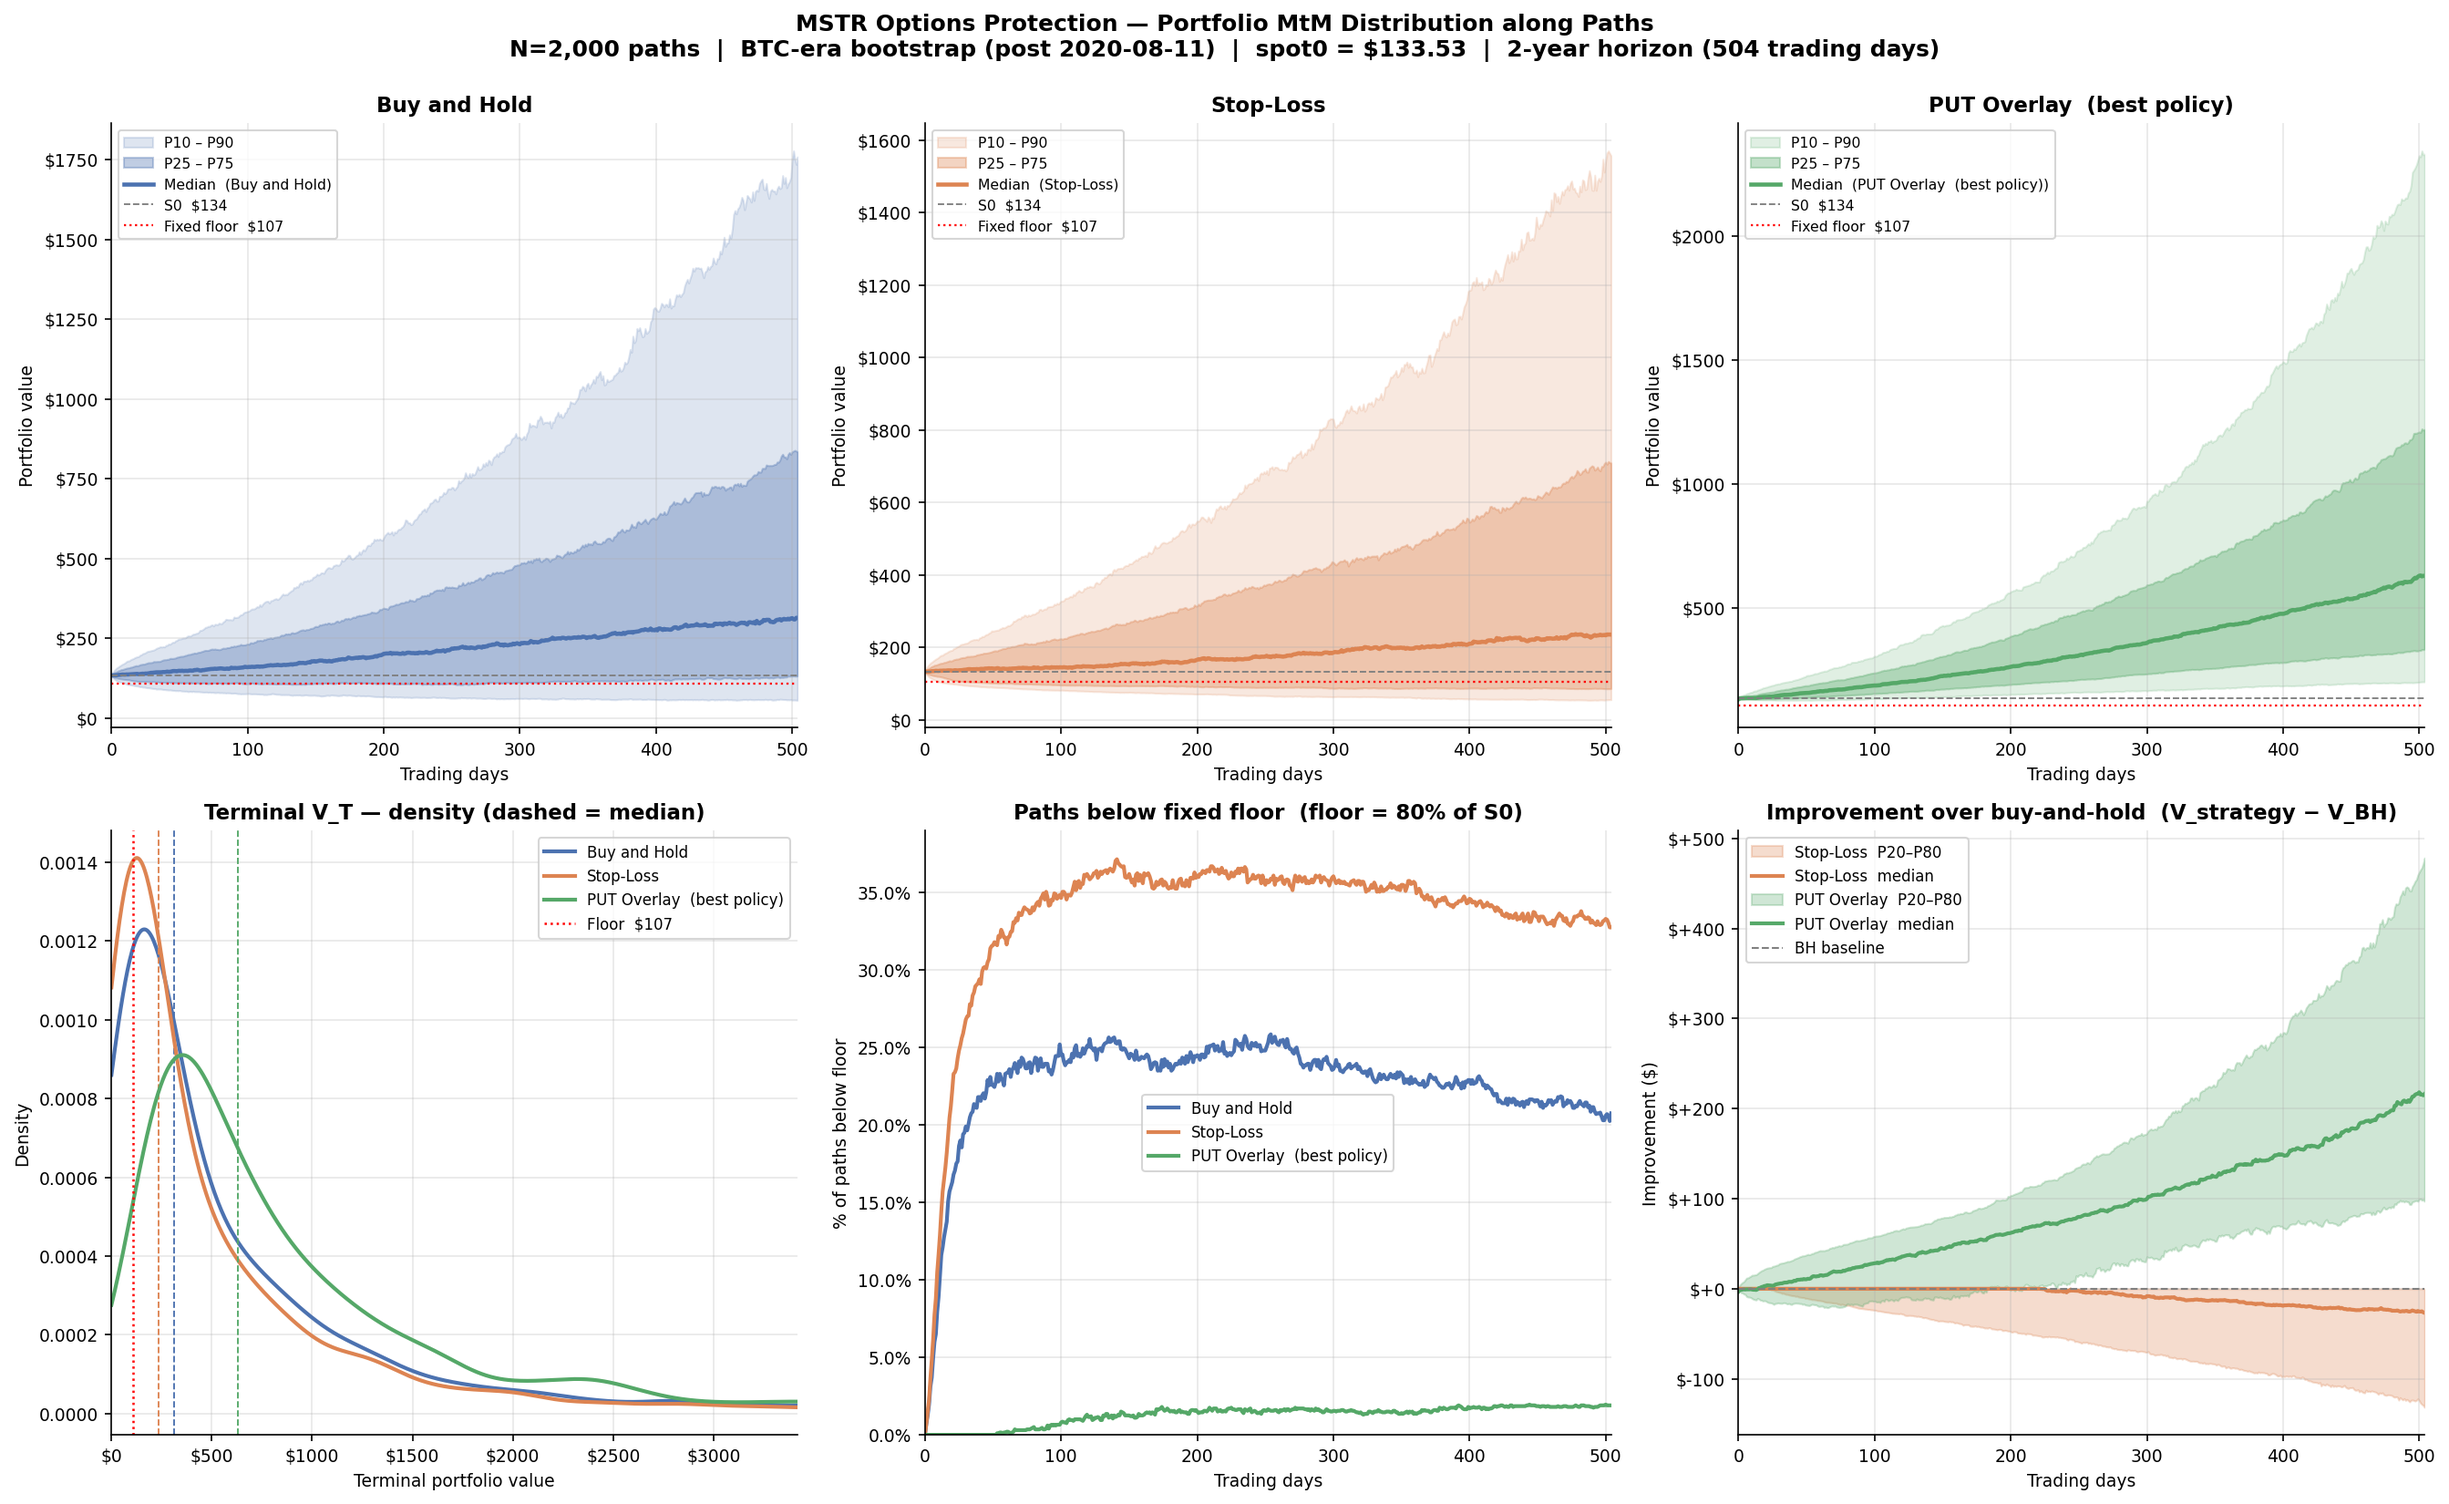
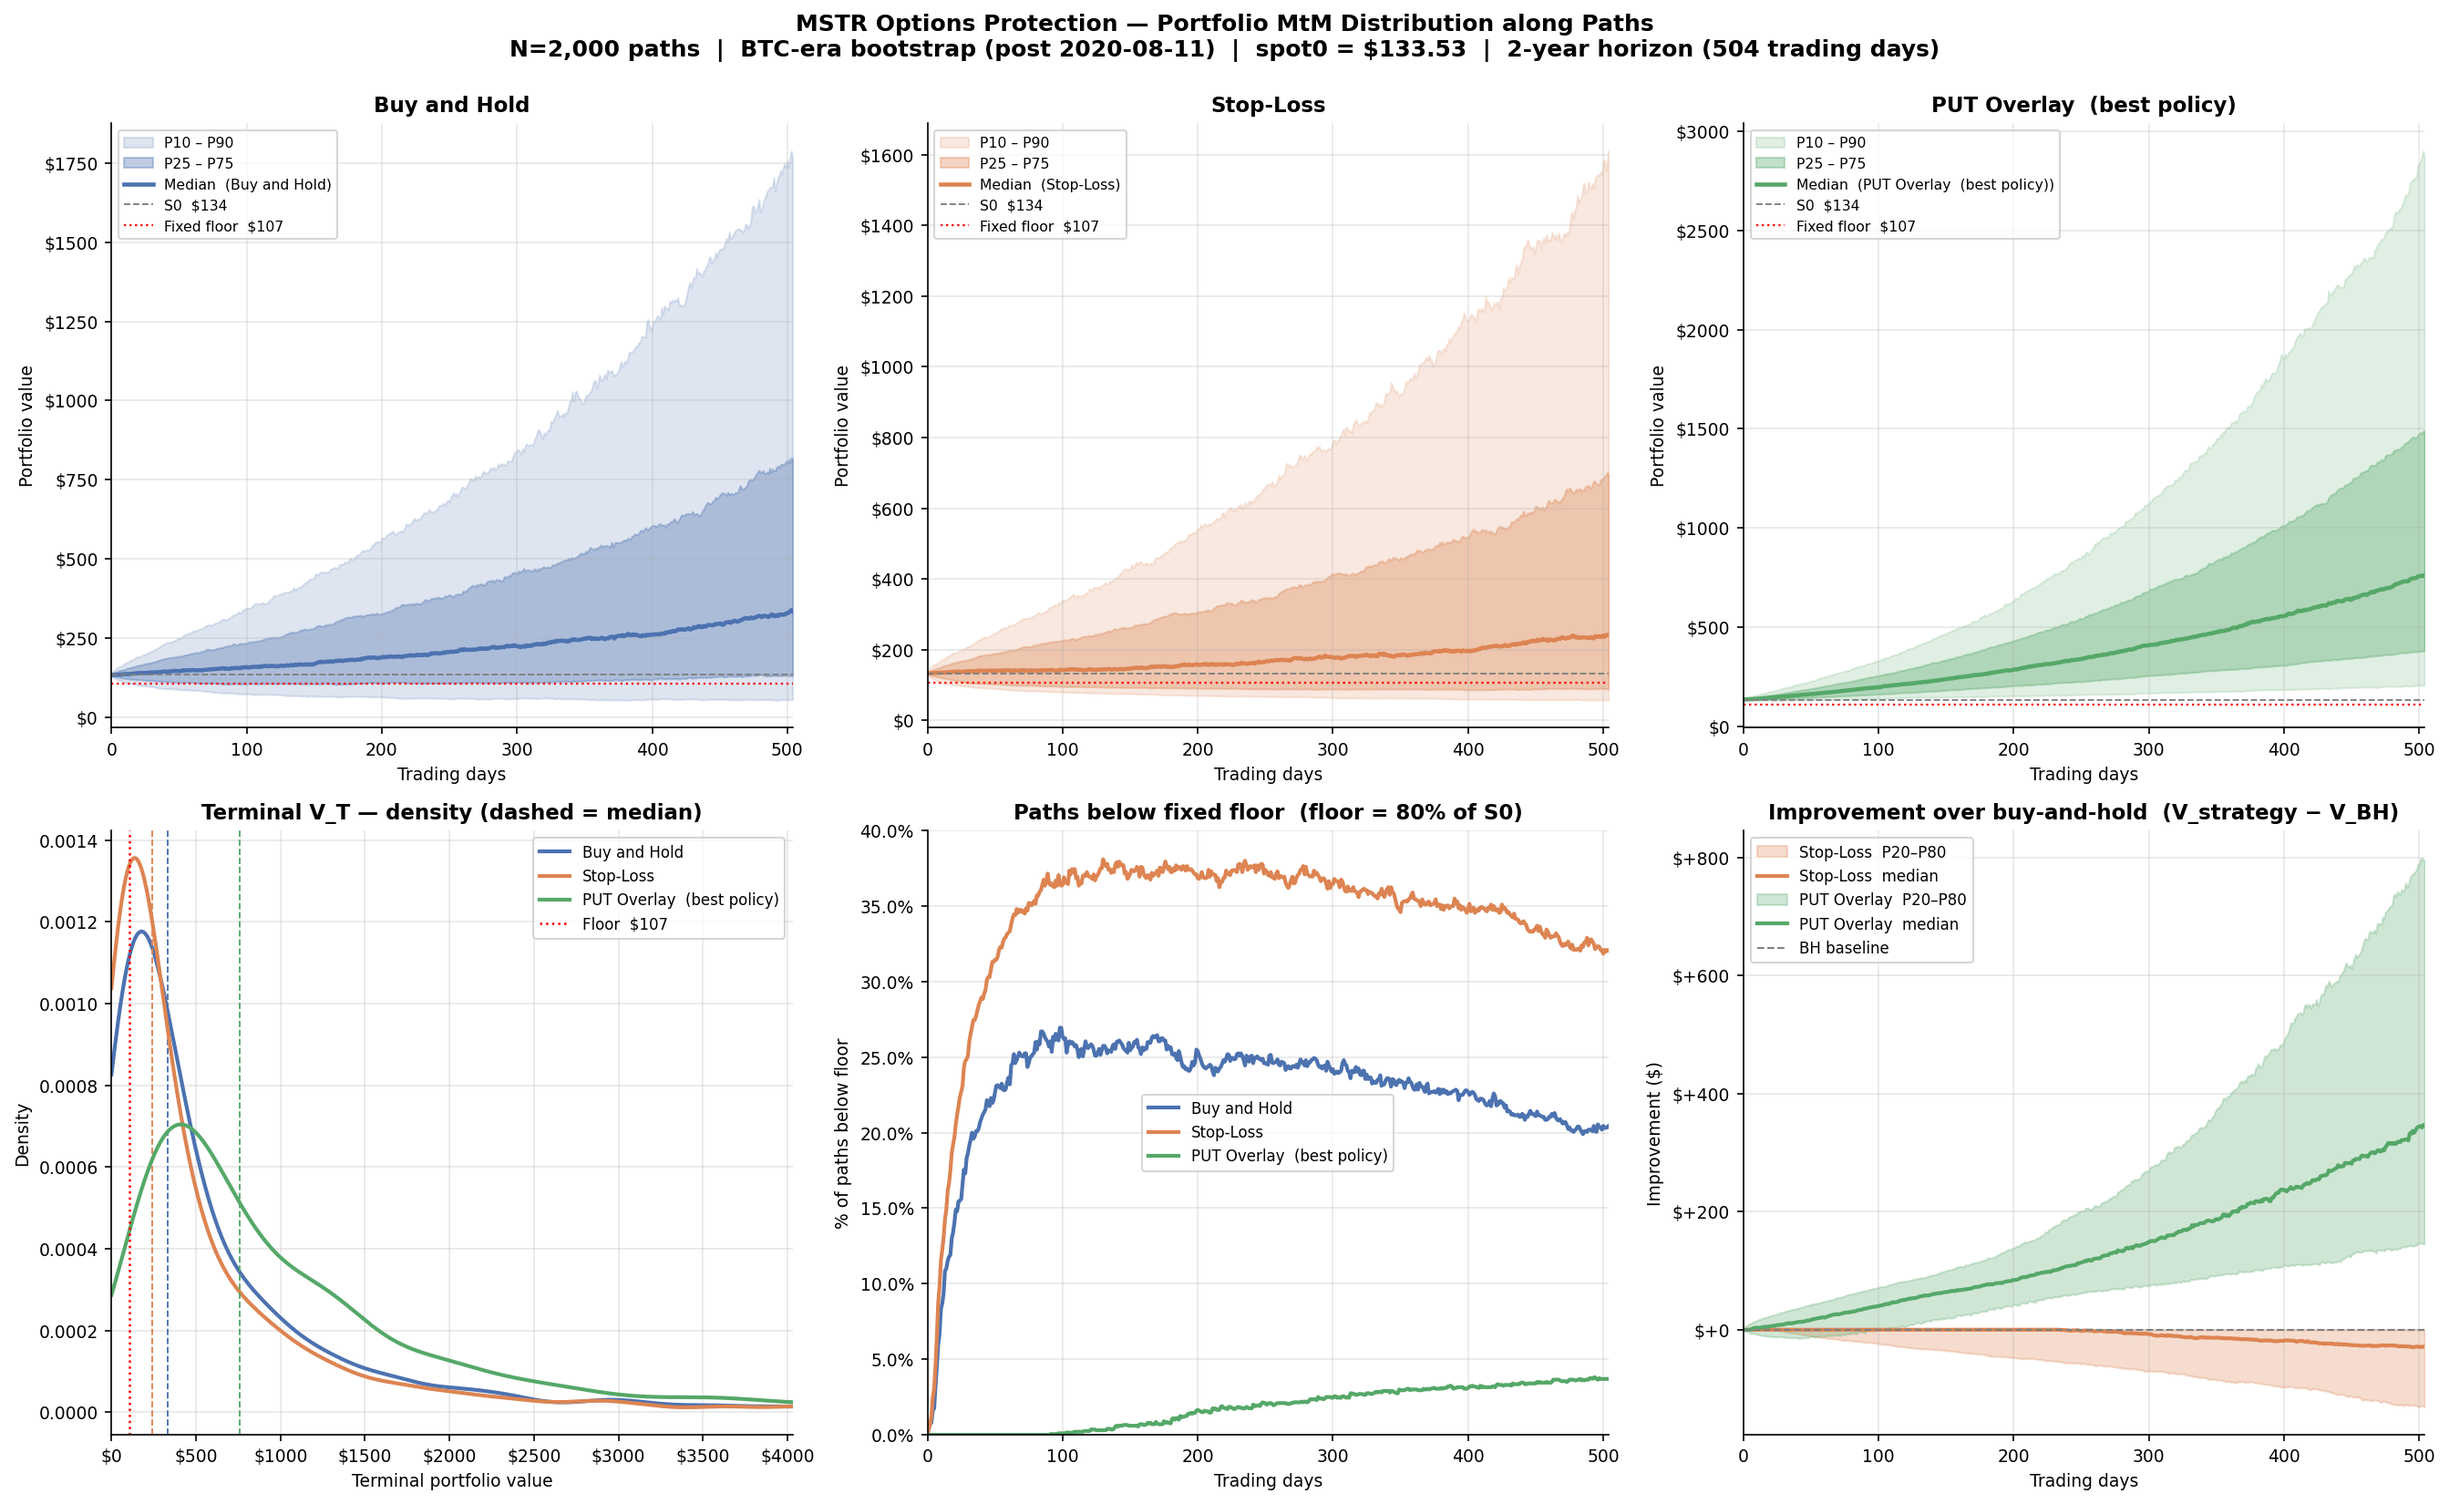
update plot_fan_charts to block-bootstrap optimal policy (q1=0)
BEST policy updated from v0.10 collar (q1=1, T_S1=467, beta=0.5) to
block-bootstrap optimum (q1=0 pure long put, T_L=34, d_min_long=28,
beta=0.25). Short-leg params commented as irrelevant when q1=0.
Fan charts regenerated with block_size=10 paths and correct policy.

diff --git a/mstr_policy_search/plot_fan_charts.py b/mstr_policy_search/plot_fan_charts.py
@@ -43,17 +43,19 @@ N_PATHS             = 2_000     # same as N_FINE in main.py
 SEED                = 137       # same as Phase-3 seed in main.py
 BLOCK_SIZE          = 10        # must match main.py BLOCK_SIZE
 
-# Best policy (v5 optimum — confirmed interior optimum across two grid searches)
+# Best policy — block bootstrap optimum (feature/block-bootstrap, block_size=10)
+# Key change vs v0.10: base_q1=0 (no short leg); pure rolling long put.
+# alpha_L=1.15 and T_L=34 are stable across both bootstrap methods.
 BEST = Policy(
     alpha_L     = 1.15,
-    alpha_S1    = 0.45,
+    alpha_S1    = 0.50,   # irrelevant (q1=0)
     T_L         = 34,
-    T_S1        = 467,
-    base_q1     = 1,
-    beta        = 0.5,
-    d_min_short = 35,
-    d_min_long  = 21,
-    eta_pct     = -0.15,
+    T_S1        = 69,     # irrelevant (q1=0)
+    base_q1     = 0,      # no short put
+    beta        = 0.25,
+    d_min_short = 60,     # irrelevant (q1=0)
+    d_min_long  = 28,
+    eta_pct     = -0.20,  # irrelevant (q1=0)
 )
 
 # Palette
